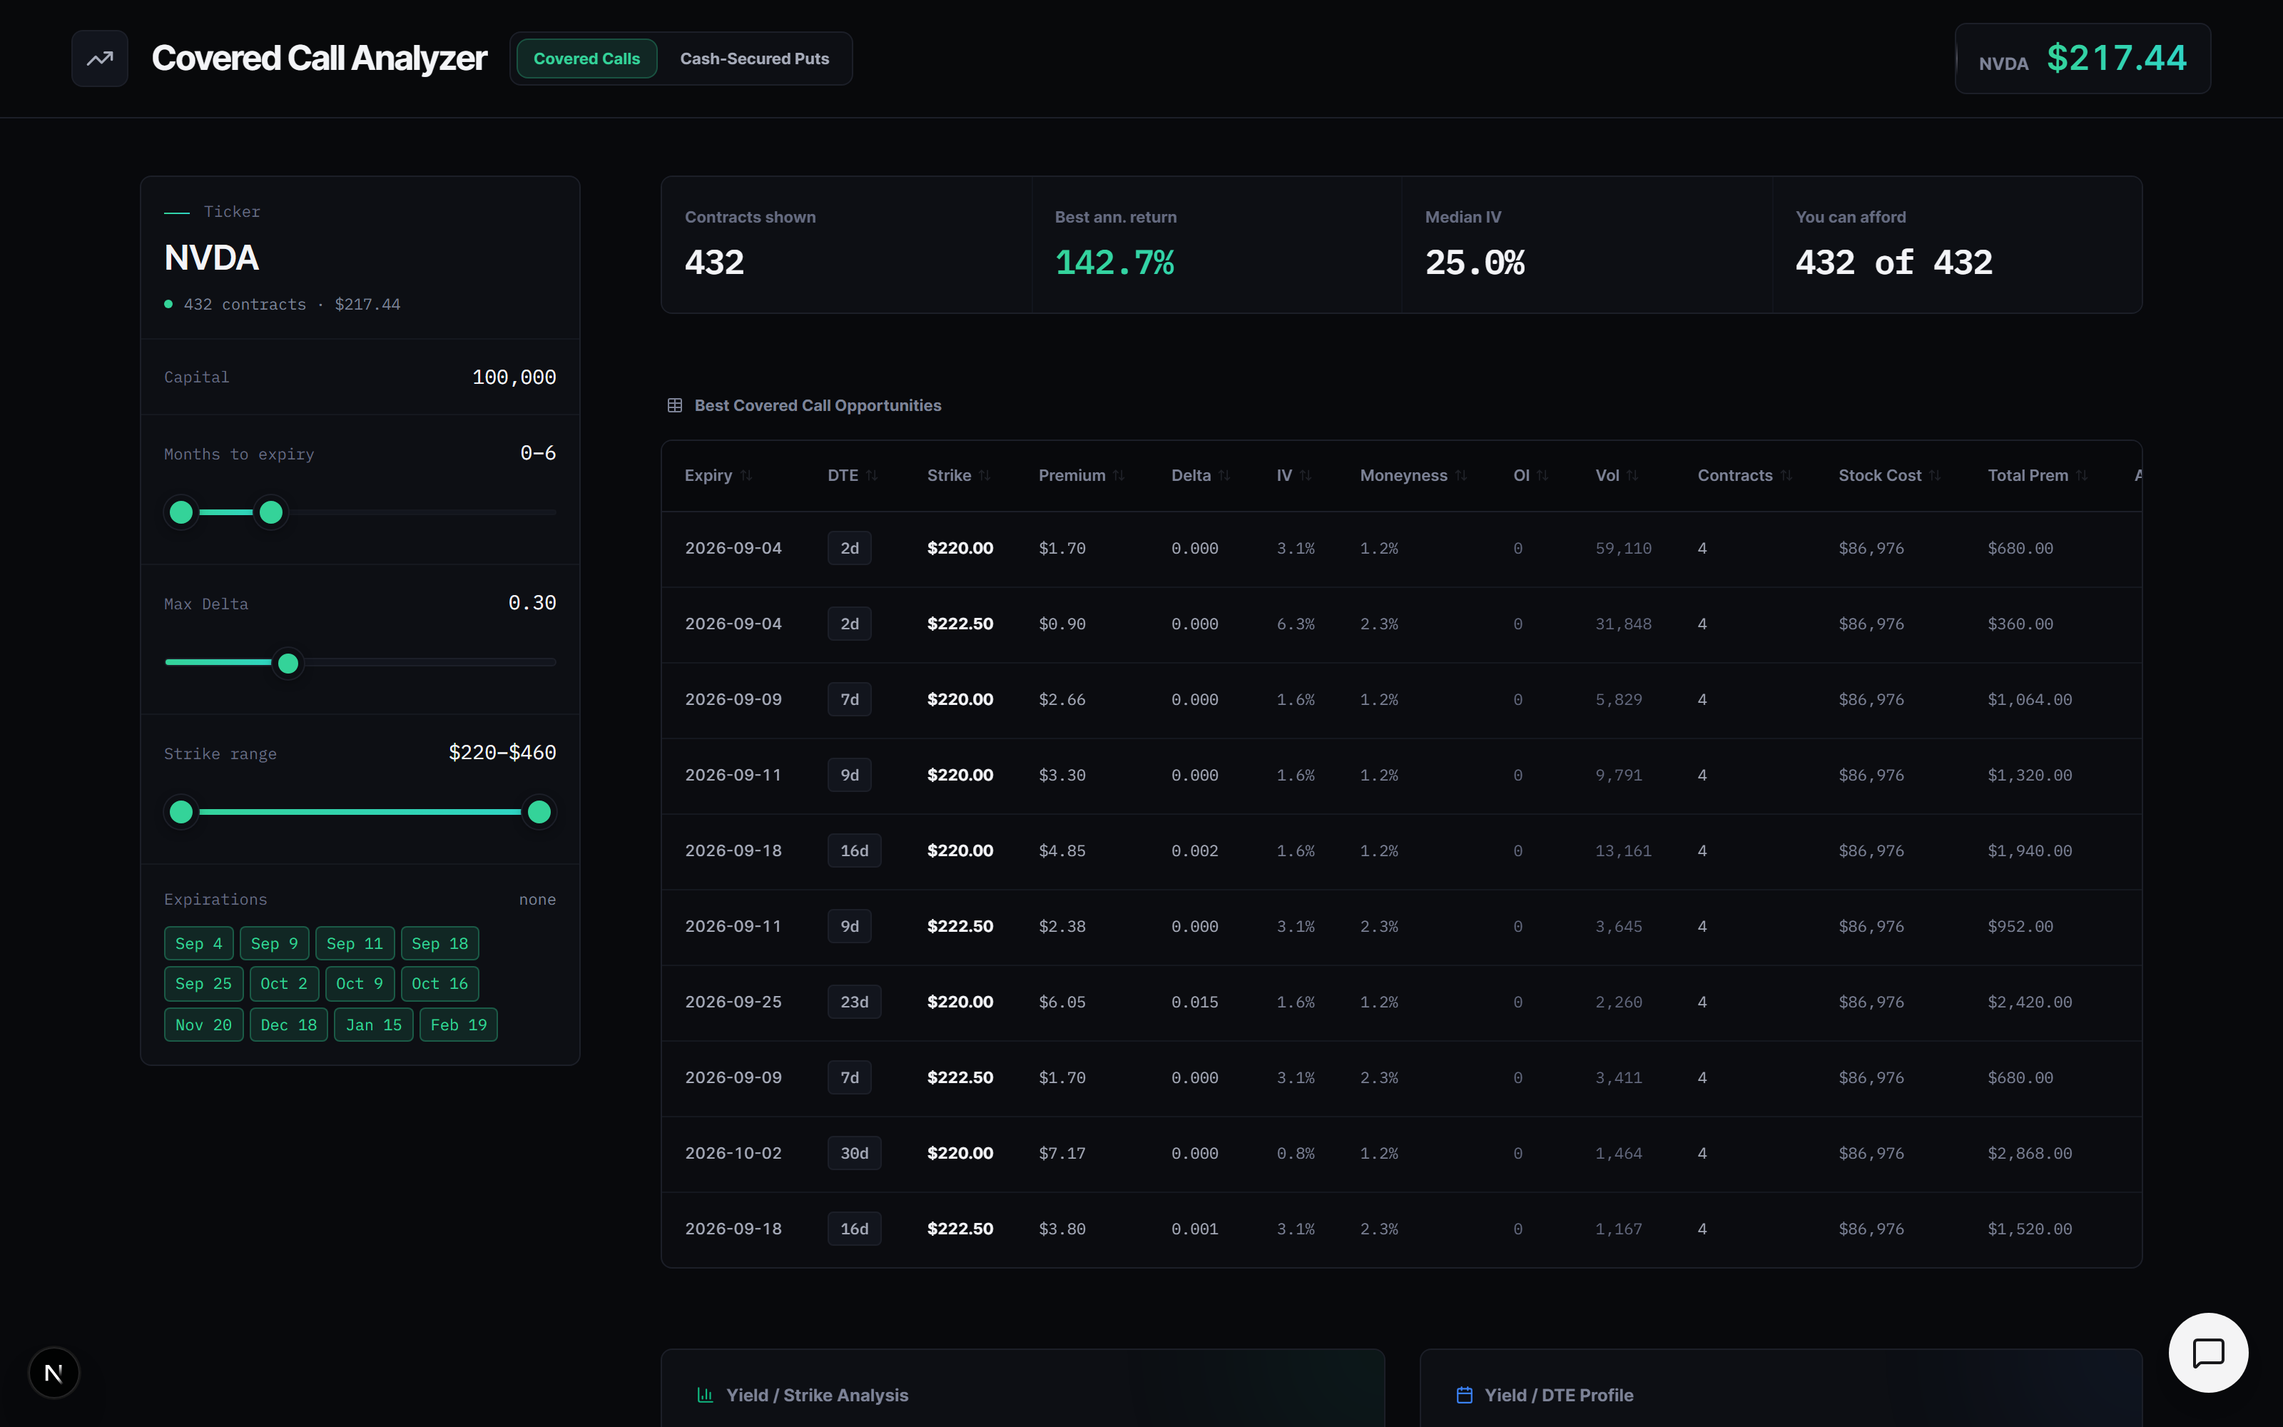
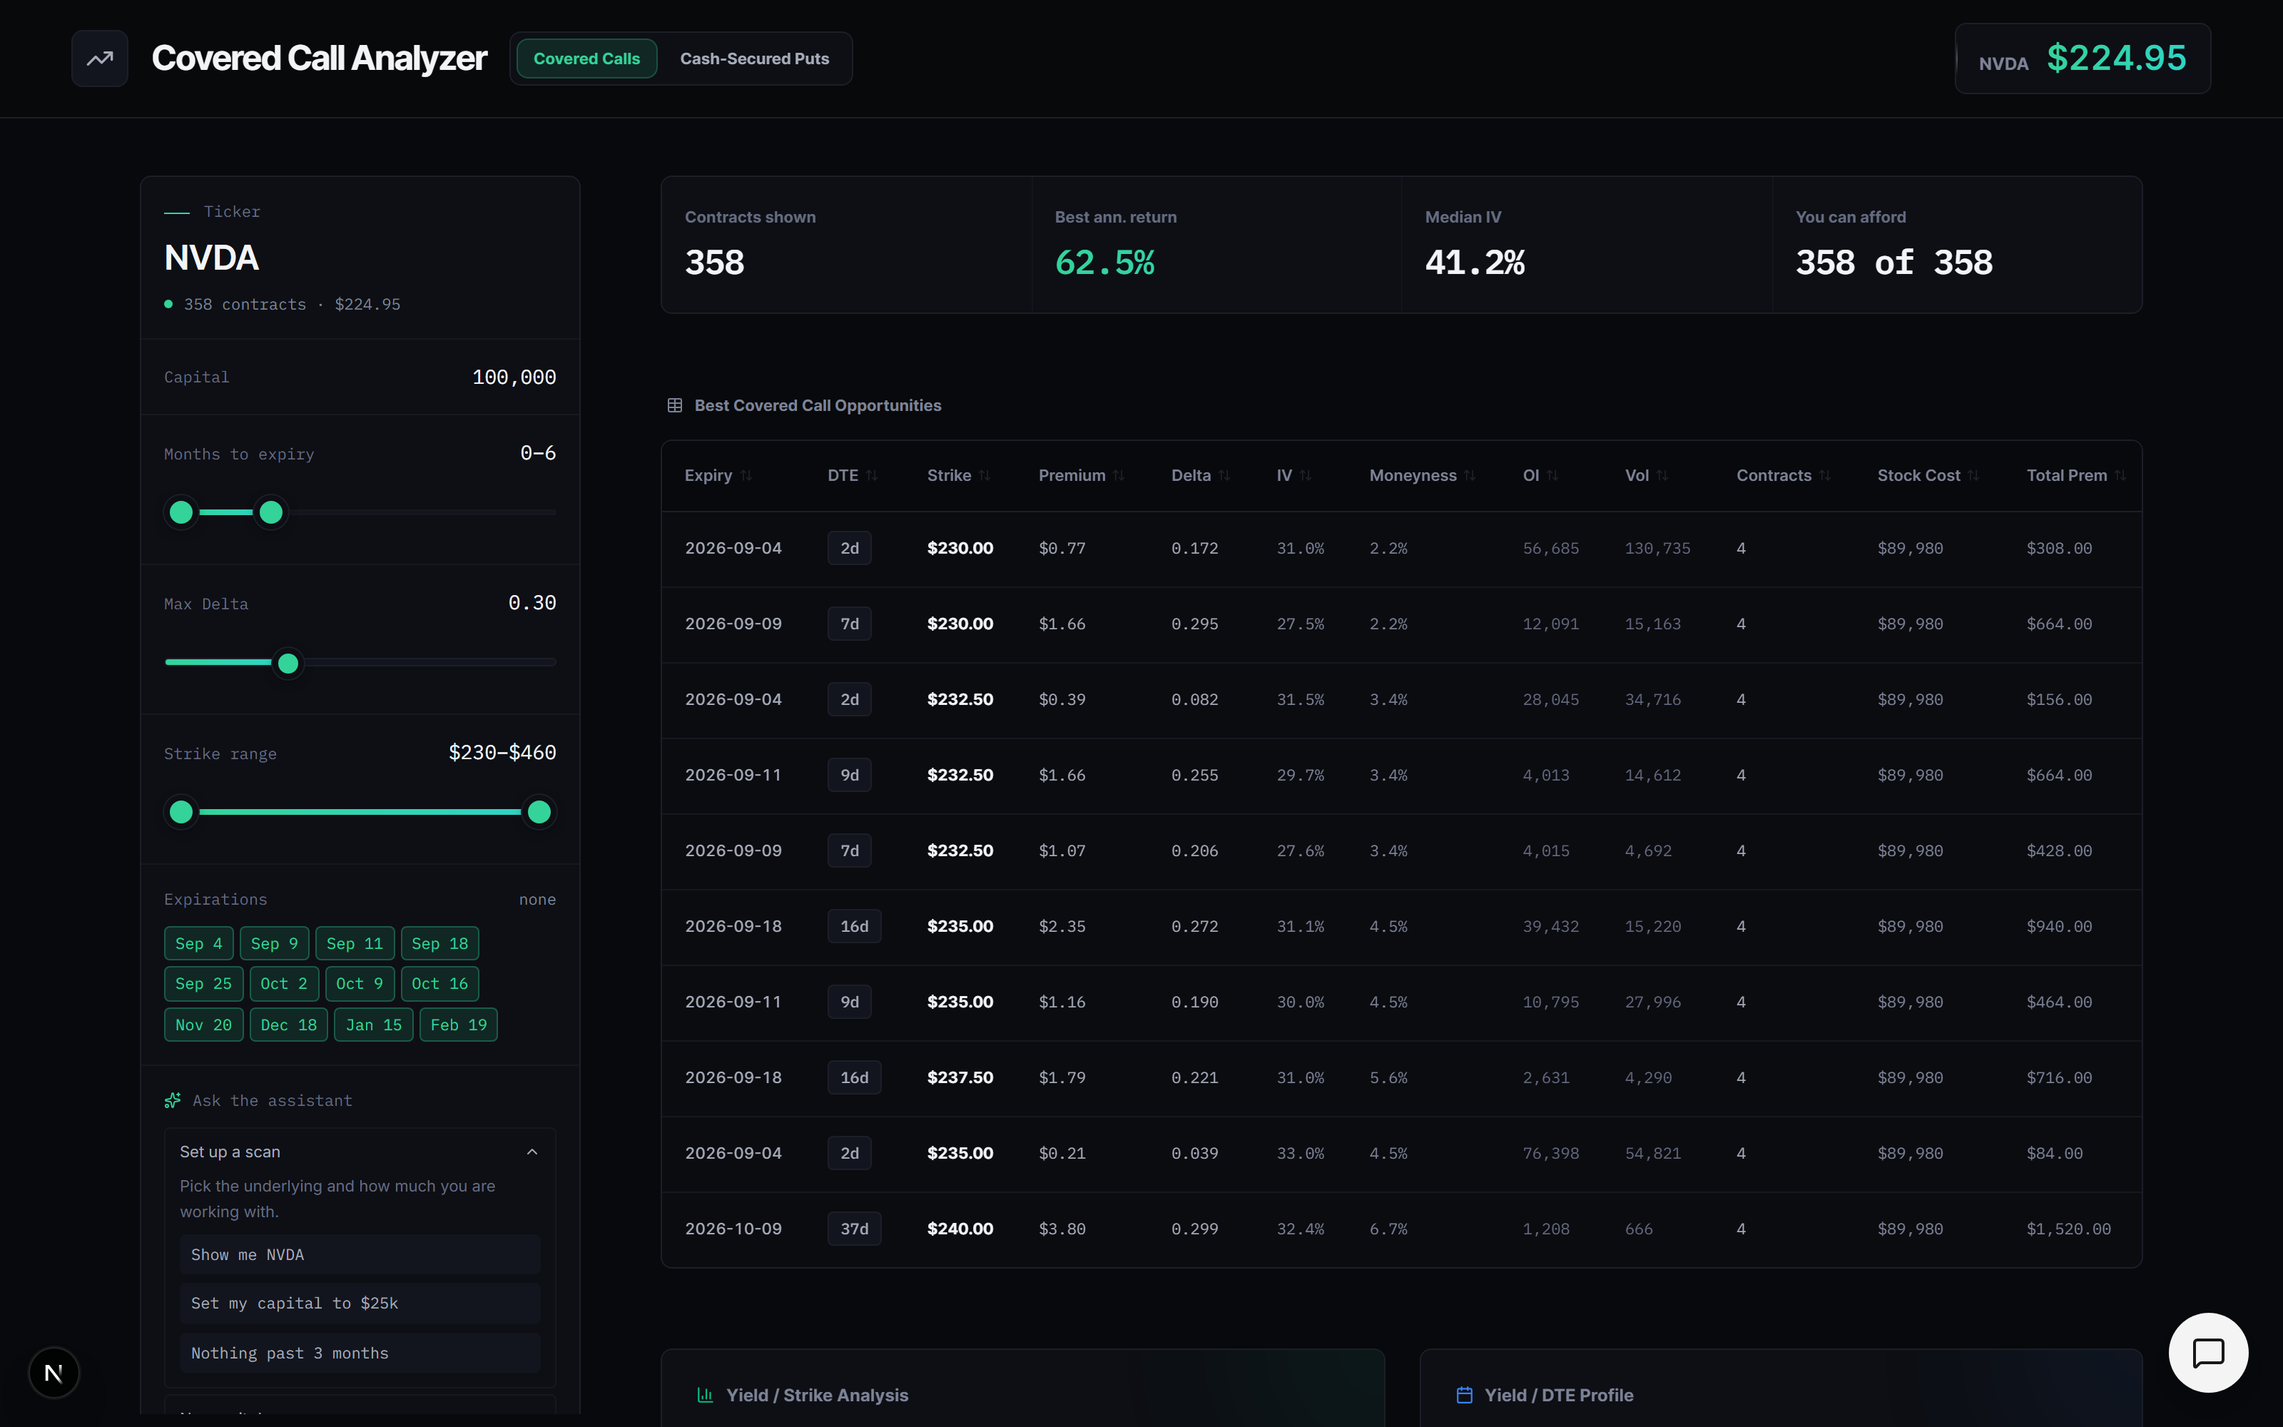
feat(ui): larger, expandable assistant panel and examples in the sidebar
The panel
- Default size goes from 400x600 to 460x720, and an expand toggle in its header
  takes it to 760x860 (bounded by the viewport). The starter groups lay out in
  two columns once expanded, so the extra width is used rather than just wider
  lines.
- Open state moves up to the page. It has to: the sidebar now opens the panel,
  and two components cannot each own the same boolean. Expanded stays local,
  being a display preference rather than something anything else drives.

Examples in the sidebar
- A new "Ask the assistant" section, so the assistant is discoverable without
  opening it first. Five collapsible groups — set up a scan, narrow it down,
  rank it, score it with a formula, chain several at once — each with a one
  line hint and real prompts. Clicking one opens the panel and sends it.
- The prompt list moves to src/lib/assistant/starters.ts so the sidebar and the
  panel's empty state read from one array and cannot drift.

The request is passed down as { text, n } with an incrementing counter rather
than a timestamp: asking for the same example twice still registers as two
requests, and nothing impure is called from the component body, which the React
compiler lint rightly rejects.

tsc clean, lint clean, 153 tests pass, build succeeds. Verified in the browser:
the sidebar section lists all five groups, expanding one reveals its prompts,
clicking "Show me NVDA" flips the panel from aria-hidden to visible, and the
expand toggle takes it 460x720 -> 760x860.

diff --git a/src/components/LLMChatbot.tsx b/src/components/LLMChatbot.tsx
@@ -3,35 +3,11 @@
 import React, { useState, useEffect, useRef } from 'react';
 import { useChat } from '@ai-sdk/react';
 import type { Message, ToolInvocation } from 'ai';
-import { MessageSquare, X, Send, Bot, User, Loader2, AlertTriangle } from 'lucide-react';
+import { MessageSquare, X, Send, Bot, User, Loader2, AlertTriangle, Maximize2, Minimize2 } from 'lucide-react';
+import { cn } from '@/lib/ui';
 import { parseCustomFilter, describeFilter, type CustomFilter } from '@/lib/filters';
 import type { ScreenedOption } from '@/lib/optionChain';
-
-/**
- * Starter prompts for the empty state.
- *
- * Grouped by capability rather than listed flat: a person can see at a glance
- * what the assistant is for, and every prompt is real — each maps onto a tool
- * the model actually has.
- */
-const STARTERS: { title: string; prompts: string[] }[] = [
-  {
-    title: 'Set up a scan',
-    prompts: ['Show me NVDA', 'Set my capital to $25k', 'Nothing past 3 months'],
-  },
-  {
-    title: 'Narrow it down',
-    prompts: ['Only IV above 50', 'Open interest over 1000', 'Around a 20 delta'],
-  },
-  {
-    title: 'Rank it',
-    prompts: ['Sort by annualized return', 'Cheapest premium first'],
-  },
-  {
-    title: 'Score it with your own formula',
-    prompts: ['Sort by oi^2 + ann return^2', 'Add a column for yield per day'],
-  },
-];
+import { STARTERS } from '@/lib/assistant/starters';
 
 interface LLMChatbotProps {
   /** Strategy name shown under the assistant title. */
@@ -50,6 +26,11 @@ interface LLMChatbotProps {
     direction: 'asc' | 'desc' | null;
   }) => void;
   triggerFetch: () => void;
+  /** Controlled so the sidebar's Examples can open the panel. */
+  open: boolean;
+  onOpenChange: (open: boolean) => void;
+  /** A prompt to send. The counter makes repeat sends of the same text fire. */
+  request?: { text: string; n: number };
 }
 
 export default function LLMChatbot({
@@ -64,8 +45,12 @@ export default function LLMChatbot({
   addComputedColumn,
   setSortConfig,
   triggerFetch,
+  open: isOpen,
+  onOpenChange,
+  request,
 }: LLMChatbotProps) {
-  const [isOpen, setIsOpen] = useState(false);
+  // Expanded is a display preference, so it stays local.
+  const [expanded, setExpanded] = useState(false);
   const messagesEndRef = useRef<HTMLDivElement>(null);
 
   const { messages, input, handleInputChange, handleSubmit, status, error, addToolResult, append } = useChat({
@@ -80,6 +65,17 @@ export default function LLMChatbot({
     if (isLoading) return;
     append({ role: 'user', content: text });
   };
+
+  // A prompt pushed in from the sidebar. Keyed on the counter so asking for the
+  // same example twice sends it twice.
+  const lastRequest = useRef(0);
+  useEffect(() => {
+    if (!request || request.n === lastRequest.current) return;
+    lastRequest.current = request.n;
+    append({ role: 'user', content: request.text });
+    // append is stable for a given chat; re-running on it would resend.
+    // eslint-disable-next-line react-hooks/exhaustive-deps
+  }, [request]);
 
   // Execute client-side tool calls when they arrive
   useEffect(() => {
@@ -157,7 +153,7 @@ export default function LLMChatbot({
     <>
       {/* Floating Action Button */}
       <button
-        onClick={() => setIsOpen(true)}
+        onClick={() => onOpenChange(true)}
         aria-label="Open the AI assistant"
         className={`fixed bottom-5 right-5 md:bottom-6 md:right-6 flex items-center justify-center w-14 h-14 bg-zinc-100 text-zinc-900 rounded-full shadow-lg hover:bg-white focus:outline-none focus-visible:ring-2 focus-visible:ring-a1/60 focus-visible:ring-offset-2 focus-visible:ring-offset-bg z-50`}
         style={{
@@ -175,7 +171,12 @@ export default function LLMChatbot({
         role="dialog"
         aria-label="AI assistant"
         aria-hidden={!isOpen}
-        className={`fixed inset-x-3 bottom-3 top-16 sm:inset-x-auto sm:top-auto sm:bottom-6 sm:right-6 sm:w-[400px] sm:h-[600px] bg-bg border border-line rounded-lg shadow-xl flex-col overflow-hidden z-50`}
+        className={cn(
+          'fixed inset-x-3 bottom-3 top-16 sm:inset-x-auto sm:top-auto sm:bottom-6 sm:right-6 bg-bg border border-line rounded-lg shadow-xl flex-col overflow-hidden z-50 transition-[width,height] duration-200',
+          expanded
+            ? 'sm:w-[min(760px,calc(100vw-3rem))] sm:h-[min(860px,calc(100vh-3rem))]'
+            : 'sm:w-[460px] sm:h-[720px]'
+        )}
         style={{
           display: 'flex',
           transition: 'opacity 0.3s ease, transform 0.3s ease',
@@ -195,13 +196,23 @@ export default function LLMChatbot({
               <p className="text-[11px] text-fg-soft tracking-normal">{subtitle}</p>
             </div>
           </div>
+          <div className="flex items-center gap-1">
           <button
-            onClick={() => setIsOpen(false)}
+            onClick={() => setExpanded((e) => !e)}
+            aria-label={expanded ? 'Shrink the assistant' : 'Expand the assistant'}
+            title={expanded ? 'Shrink' : 'Expand'}
+            className="hidden sm:block p-2 text-fg-soft hover:text-fg hover:bg-bg-3 rounded-full transition-colors focus:outline-none focus-visible:ring-2 focus-visible:ring-a1/60"
+          >
+            {expanded ? <Minimize2 size={16} /> : <Maximize2 size={16} />}
+          </button>
+          <button
+            onClick={() => onOpenChange(false)}
             aria-label="Close the assistant"
             className="p-2 text-fg-soft hover:text-fg hover:bg-bg-3 rounded-full transition-colors focus:outline-none focus-visible:ring-2 focus-visible:ring-a1/60"
           >
             <X size={20} />
           </button>
+          </div>
         </div>
 
         {/* Messages */}
@@ -216,9 +227,11 @@ export default function LLMChatbot({
                 you want in your own words.
               </p>
 
+              <div className={cn('grid gap-5', expanded && 'sm:grid-cols-2')}>
               {STARTERS.map((group) => (
                 <div key={group.title} className="space-y-2">
                   <p className="font-mono text-[11px] text-faint">{group.title}</p>
+                  <p className="text-[11px] text-faint/80 -mt-1">{group.hint}</p>
                   <div className="flex flex-col gap-1.5">
                     {group.prompts.map((prompt) => (
                       <button
@@ -233,6 +246,7 @@ export default function LLMChatbot({
                   </div>
                 </div>
               ))}
+              </div>
 
               <p className="text-[11px] text-faint leading-relaxed">
                 You can chain these: &ldquo;NVDA, 20k, 30 delta, within 3

diff --git a/src/app/page.tsx b/src/app/page.tsx
@@ -2,6 +2,8 @@
 
 import React, { useState, useEffect, useMemo, useDeferredValue, useRef, useCallback } from 'react';
 import {
+  ChevronDown,
+  Sparkles,
   Calendar,
   TrendingUp,
   Info,
@@ -22,6 +24,7 @@ import { STRATEGIES, STRATEGY_IDS, DEFAULT_STRATEGY_ID, type StrategyId } from '
 import type { ScreenedOption, ScreenerResponse } from '@/lib/optionChain';
 import { matchesFilter, describeFilter, type CustomFilter } from '@/lib/filters';
 import { compileFormula, type ComputedColumn } from '@/lib/formula';
+import { STARTERS } from '@/lib/assistant/starters';
 
 /** The enriched row the screener API returns. Shared with the server. */
 type OptionData = ScreenedOption;
@@ -68,6 +71,20 @@ export default function OptionAnalyzer() {
   const [showMobileFilters, setShowMobileFilters] = useState(false);
   const [customFilters, setCustomFilters] = useState<CustomFilter[]>([]);
   const [computedColumns, setComputedColumns] = useState<ComputedColumn[]>([]);
+  const [assistantOpen, setAssistantOpen] = useState(false);
+  const [assistantRequest, setAssistantRequest] = useState<{ text: string; n: number }>();
+  const [openExampleGroup, setOpenExampleGroup] = useState<string | null>(STARTERS[0].title);
+
+  /**
+   * Open the assistant and hand it a prompt, as if the user had typed it.
+   * The counter increments from previous state rather than reading a clock, so
+   * asking for the same example twice still registers as two requests without
+   * calling anything impure from the component body.
+   */
+  const askAssistant = (text: string) => {
+    setAssistantOpen(true);
+    setAssistantRequest((prev) => ({ text, n: (prev?.n ?? 0) + 1 }));
+  };
   const [globalSortConfig, setGlobalSortConfig] = useState<SortConfig>({ key: null, direction: null });
 
   // Custom keypad state and handlers. The state has to come first: the handlers
@@ -603,6 +620,52 @@ export default function OptionAnalyzer() {
                 </div>
               )}
 
+              {/* Examples live where the other controls are, so the assistant
+                  is discoverable without opening it first. Each one opens the
+                  panel and sends the prompt. */}
+              <div className="p-4 space-y-2.5">
+                <div className="flex items-center gap-2">
+                  <Sparkles size={12} className="text-a1" />
+                  <span className="font-mono text-[11px] text-faint">Ask the assistant</span>
+                </div>
+                <div className="space-y-1">
+                  {STARTERS.map((group) => {
+                    const isOpen = openExampleGroup === group.title;
+                    return (
+                      <div key={group.title} className="rounded border border-line-soft">
+                        <button
+                          type="button"
+                          aria-expanded={isOpen}
+                          onClick={() => setOpenExampleGroup(isOpen ? null : group.title)}
+                          className="w-full flex items-center justify-between gap-2 px-2.5 py-2 text-left text-[11px] text-fg-soft hover:text-fg transition-colors focus:outline-none focus-visible:ring-2 focus-visible:ring-a1/60 rounded"
+                        >
+                          {group.title}
+                          <ChevronDown
+                            size={12}
+                            className={cn('shrink-0 transition-transform', isOpen && 'rotate-180')}
+                          />
+                        </button>
+                        {isOpen && (
+                          <div className="px-2.5 pb-2.5 space-y-1.5">
+                            <p className="text-[11px] text-faint leading-relaxed">{group.hint}</p>
+                            {group.prompts.map((prompt) => (
+                              <button
+                                key={prompt}
+                                type="button"
+                                onClick={() => askAssistant(prompt)}
+                                className="w-full text-left rounded bg-bg-3 px-2 py-1.5 font-mono text-[11px] text-fg-soft transition-colors hover:text-a1 focus:outline-none focus-visible:ring-2 focus-visible:ring-a1/60"
+                              >
+                                {prompt}
+                              </button>
+                            ))}
+                          </div>
+                        )}
+                      </div>
+                    );
+                  })}
+                </div>
+              </div>
+
               {computedColumns.length > 0 && (
                 <div className="p-4 space-y-2.5">
                   <span className="font-mono text-[11px] text-faint">Computed columns</span>
@@ -850,6 +913,9 @@ export default function OptionAnalyzer() {
         addComputedColumn={addComputedColumn}
         setSortConfig={setGlobalSortConfig}
         triggerFetch={requestScan}
+        open={assistantOpen}
+        onOpenChange={setAssistantOpen}
+        request={assistantRequest}
       />
     </div>
   );

diff --git a/src/lib/assistant/starters.ts b/src/lib/assistant/starters.ts
@@ -1,0 +1,48 @@
+/**
+ * Example prompts, grouped by capability.
+ *
+ * Shared by the assistant's empty state and the sidebar's Examples section, so
+ * the two cannot drift. Every prompt maps onto a tool the model actually has —
+ * an example that does not work is worse than no example.
+ */
+export interface StarterGroup {
+  title: string;
+  /** Short note on what this group of prompts is for. */
+  hint: string;
+  prompts: string[];
+}
+
+export const STARTERS: StarterGroup[] = [
+  {
+    title: 'Set up a scan',
+    hint: 'Pick the underlying and how much you are working with.',
+    prompts: ['Show me NVDA', 'Set my capital to $25k', 'Nothing past 3 months'],
+  },
+  {
+    title: 'Narrow it down',
+    hint: 'Filter on any numeric column.',
+    prompts: ['Only IV above 50', 'Open interest over 1000', 'Around a 20 delta'],
+  },
+  {
+    title: 'Rank it',
+    hint: 'Sort by any column, including superlatives.',
+    prompts: ['Sort by annualized return', 'Cheapest premium first'],
+  },
+  {
+    title: 'Score it with your own formula',
+    hint: 'Arithmetic over the columns becomes a new sortable column.',
+    prompts: [
+      'Sort by oi^2 + ann return^2',
+      'Add a column for yield per day',
+      'Score by premium times open interest',
+    ],
+  },
+  {
+    title: 'Chain several at once',
+    hint: 'One message can drive the whole screen.',
+    prompts: [
+      'NVDA, 20k capital, 30 delta, within 3 months',
+      'AAPL with IV over 40, then sort by yield',
+    ],
+  },
+];
